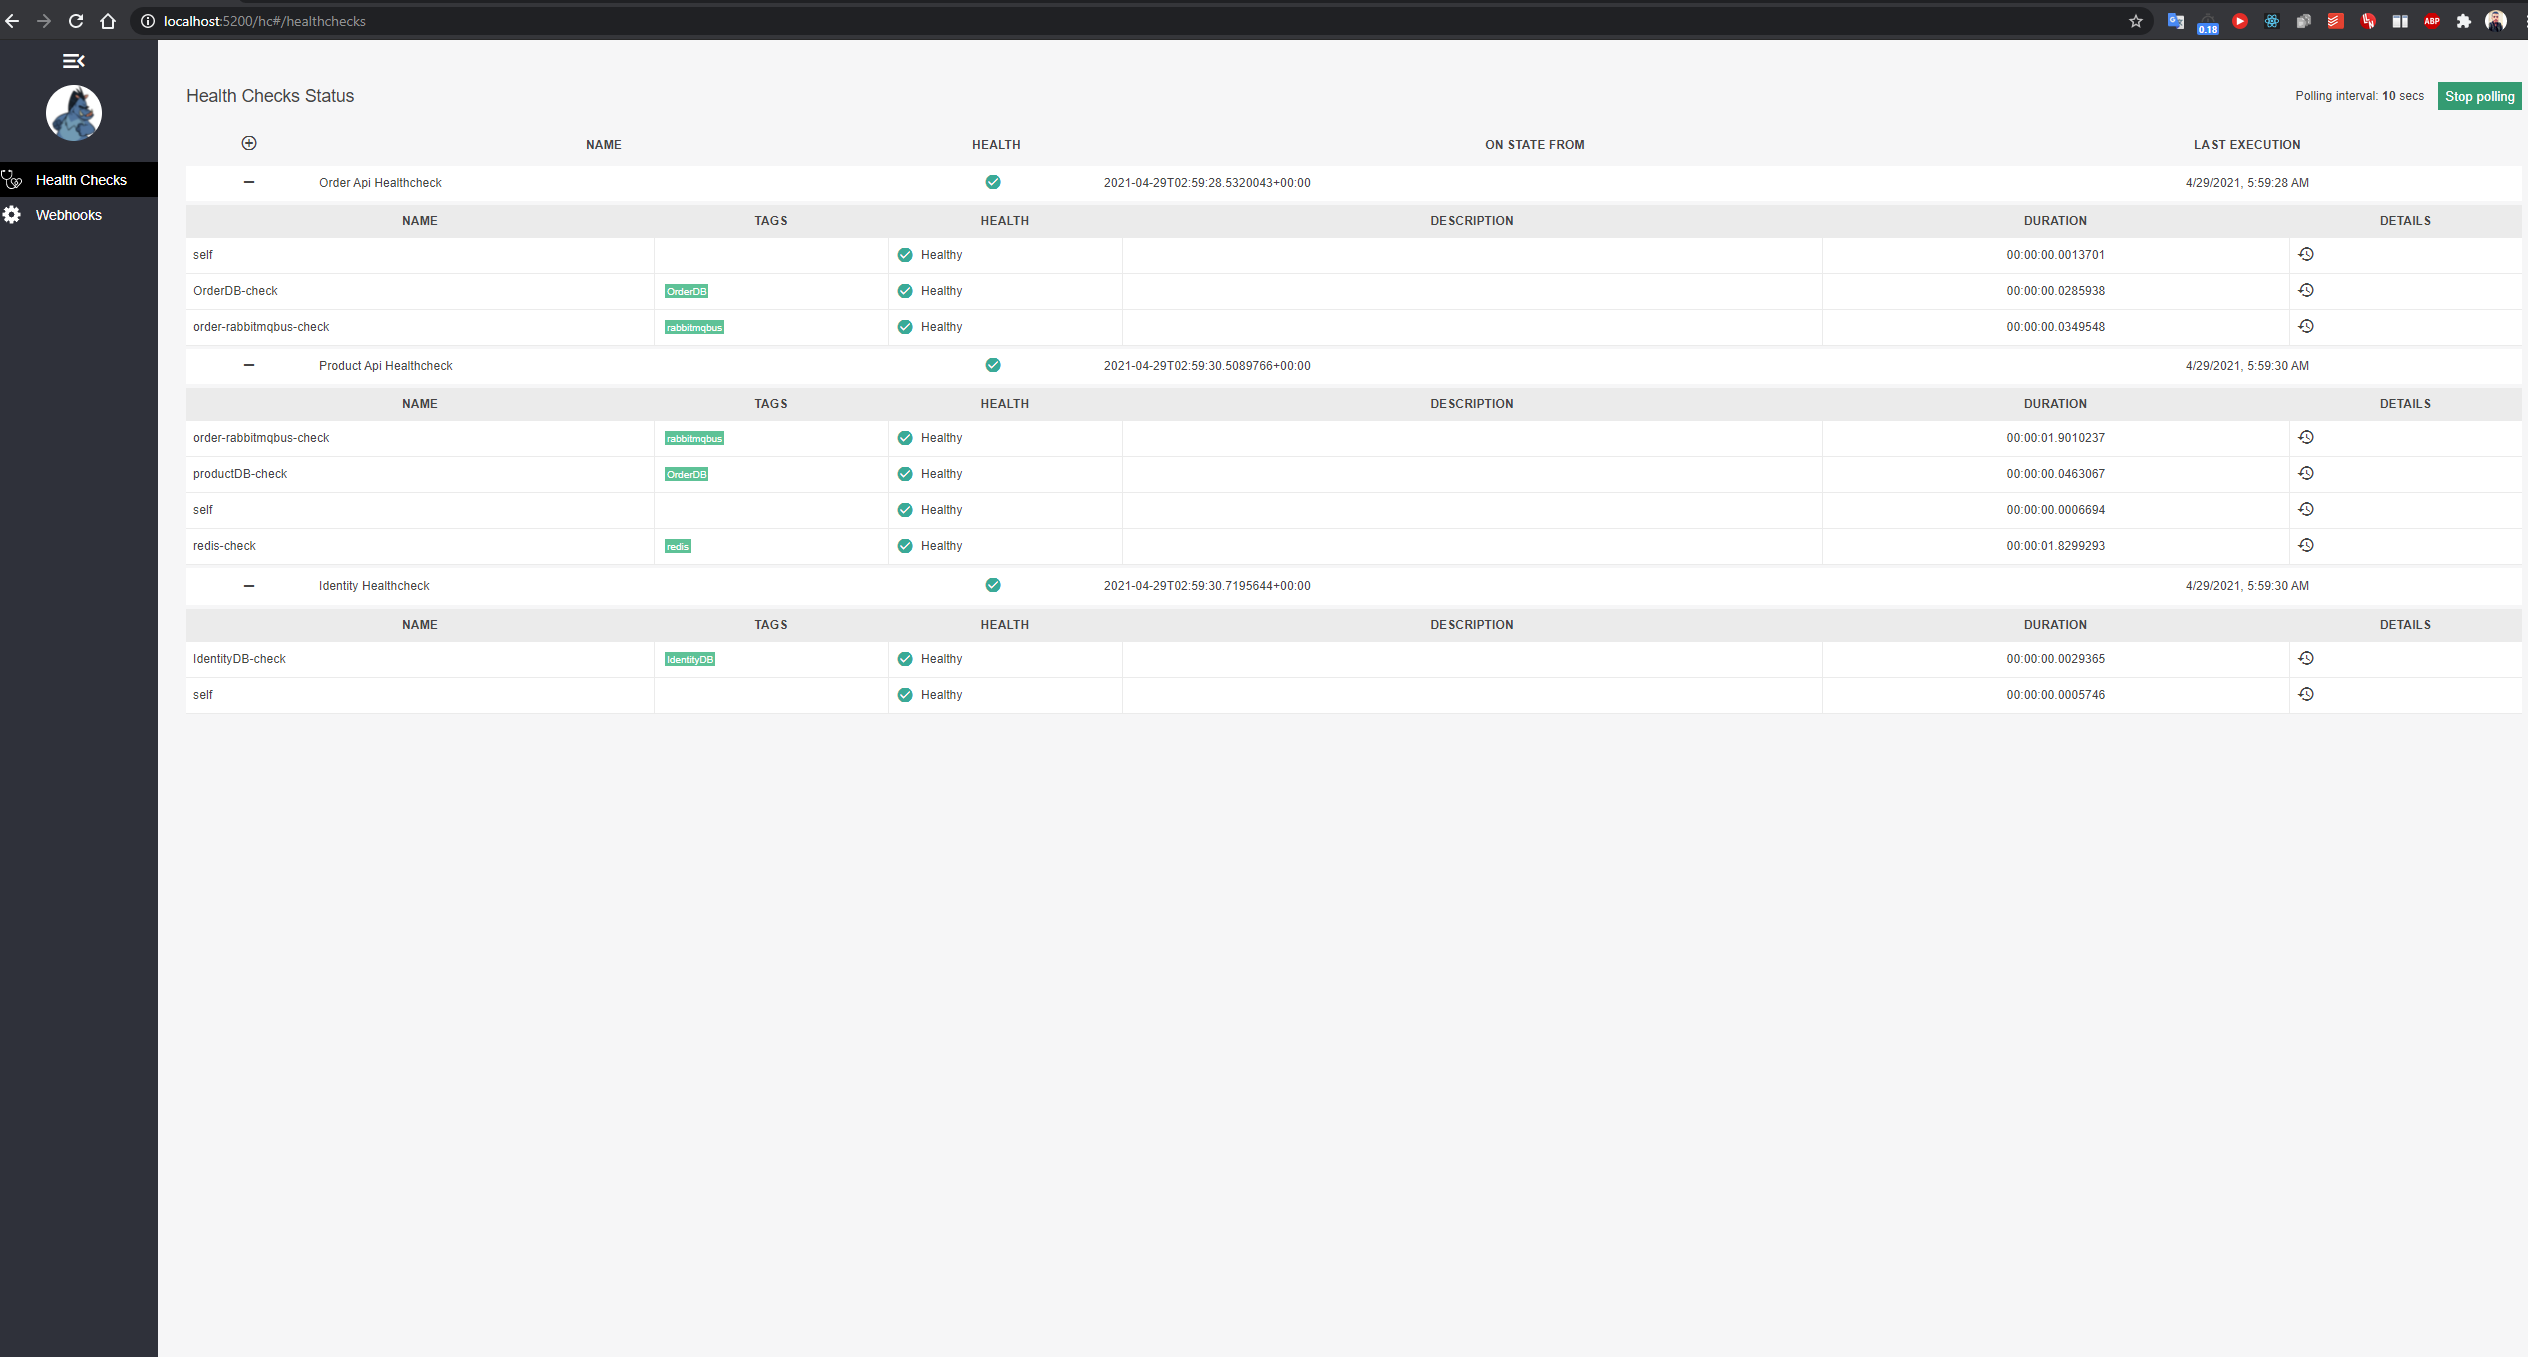
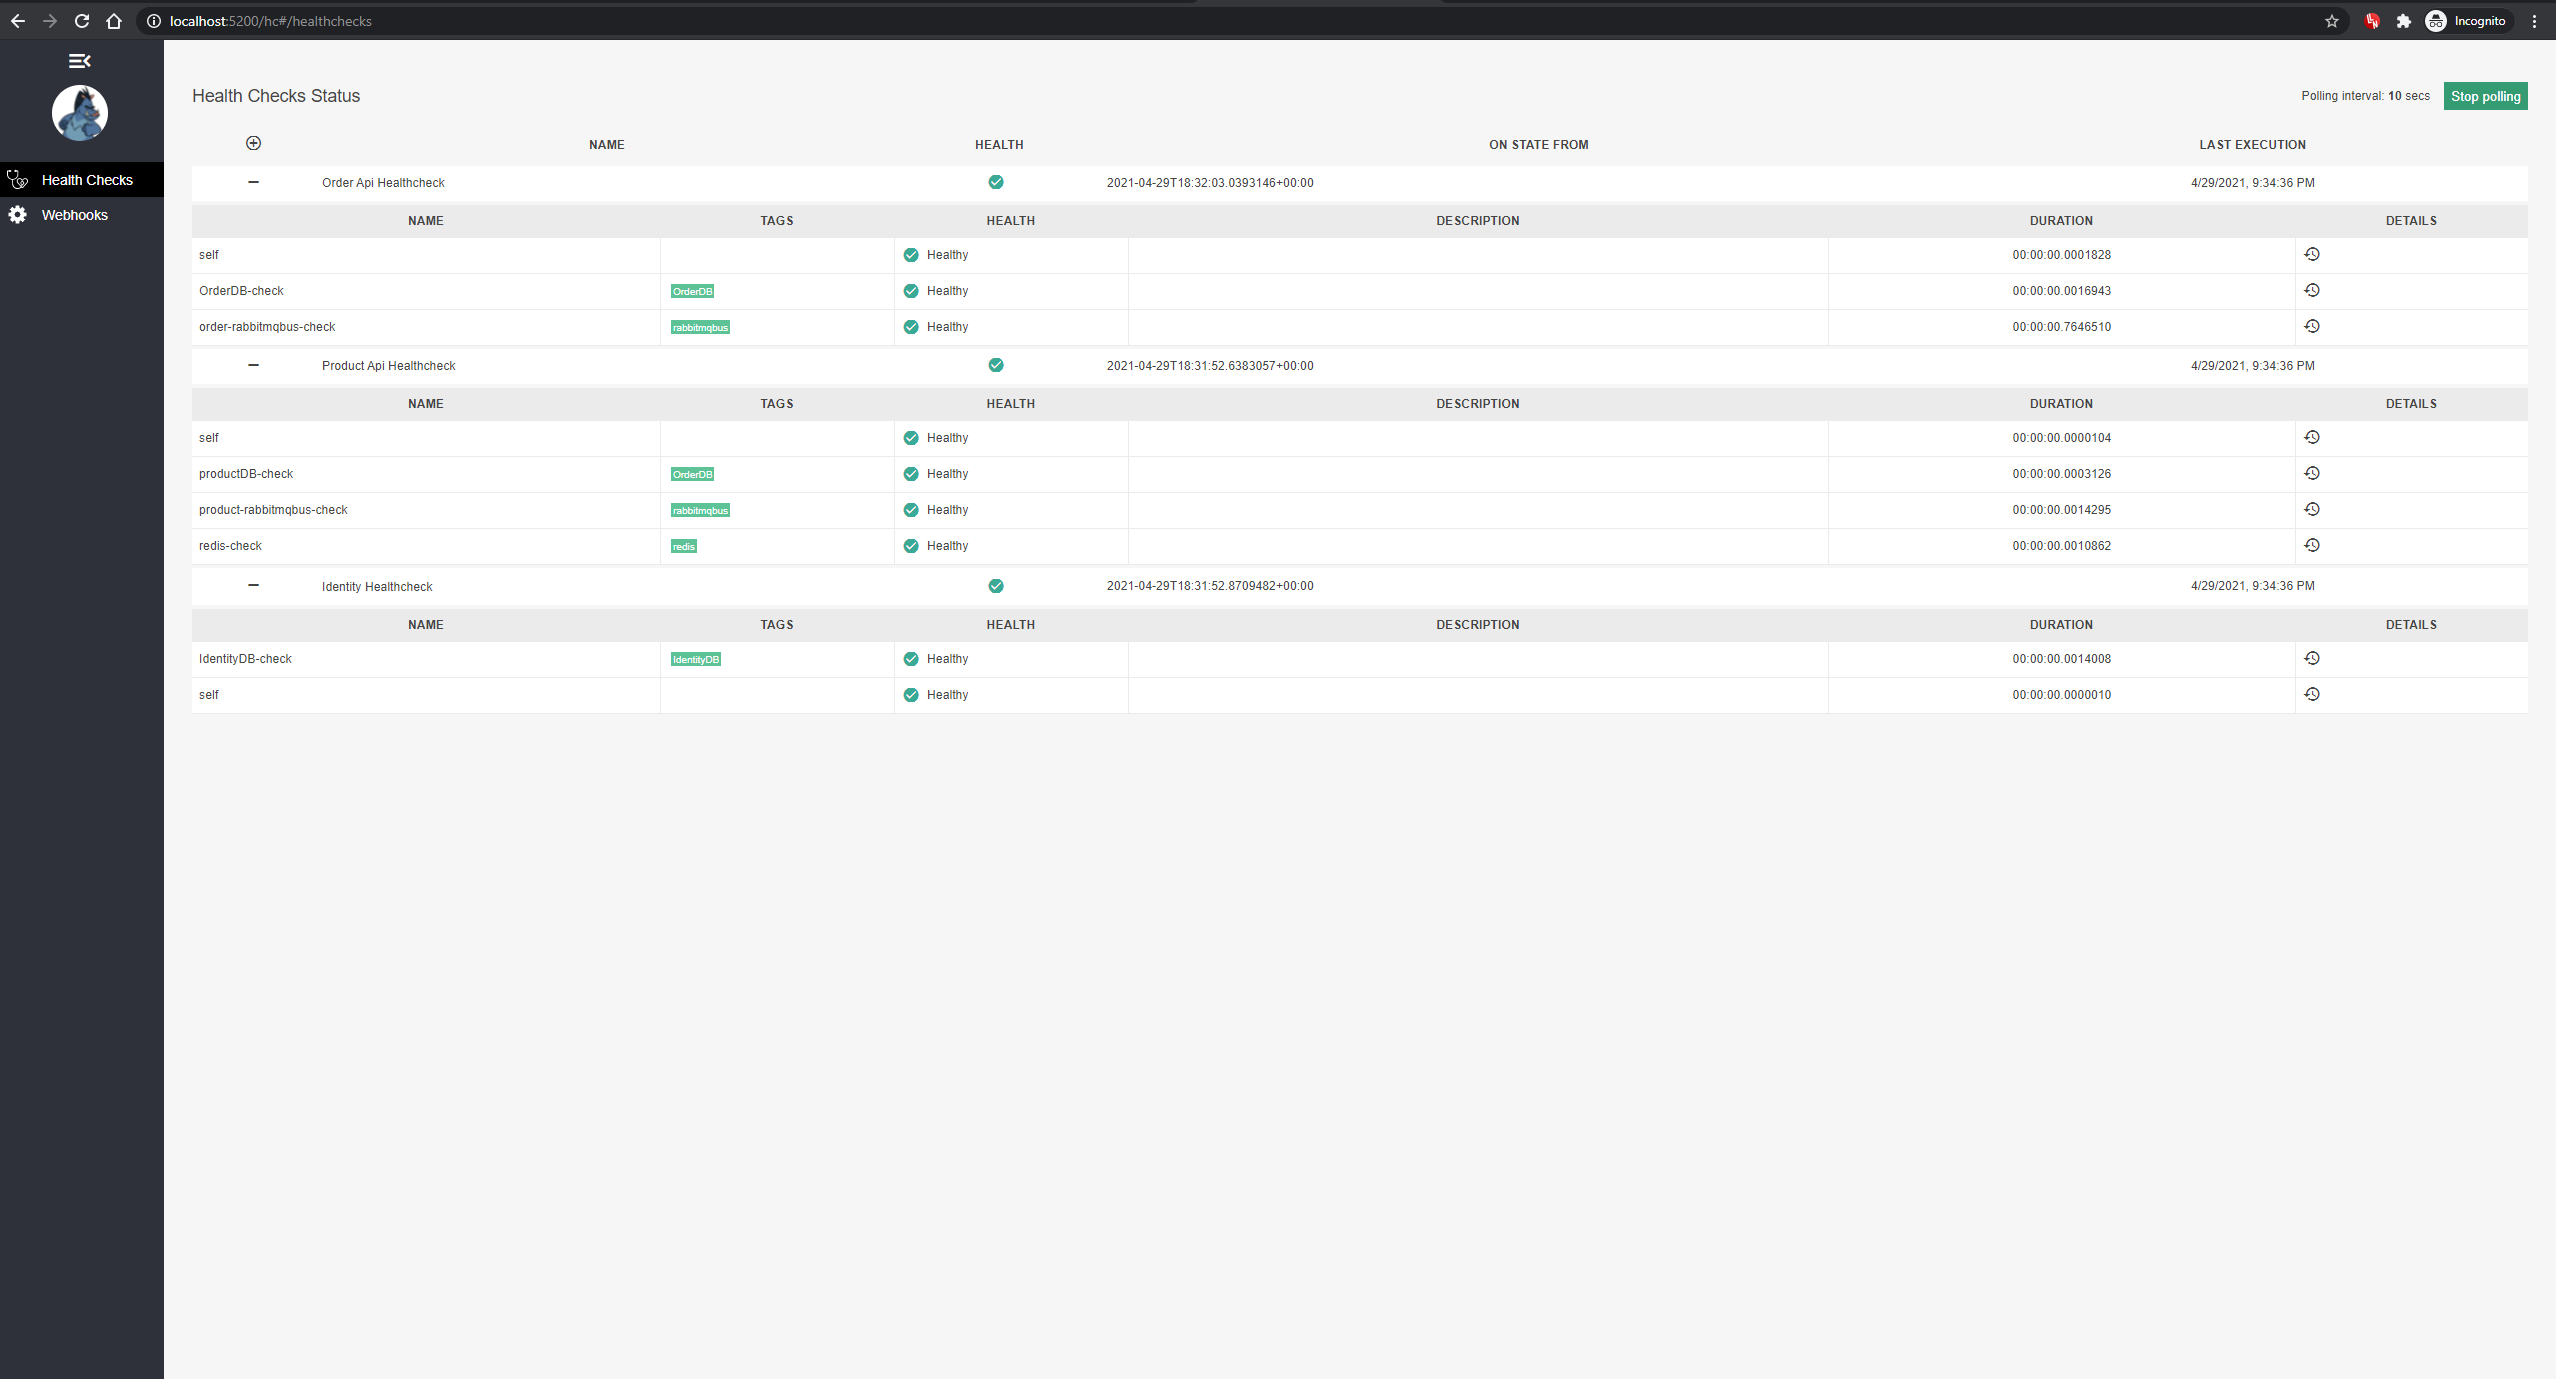
fix :v:

diff --git a/services/product/Product.Api/Web/Extensions/RegisterExtensions.cs b/services/product/Product.Api/Web/Extensions/RegisterExtensions.cs
@@ -137,7 +137,7 @@ namespace Product.Api.Web.Extensions
                     tags: new[] { "OrderDB" })
                 .AddRabbitMQ(
                     $"amqp://{configuration["EventBusConnection"]}",
-                    name: "order-rabbitmqbus-check",
+                    name: "product-rabbitmqbus-check",
                     tags: new[] { "rabbitmqbus" })
                 .AddRedis(configuration["RedisConnection"], 
                     name: "redis-check", 
